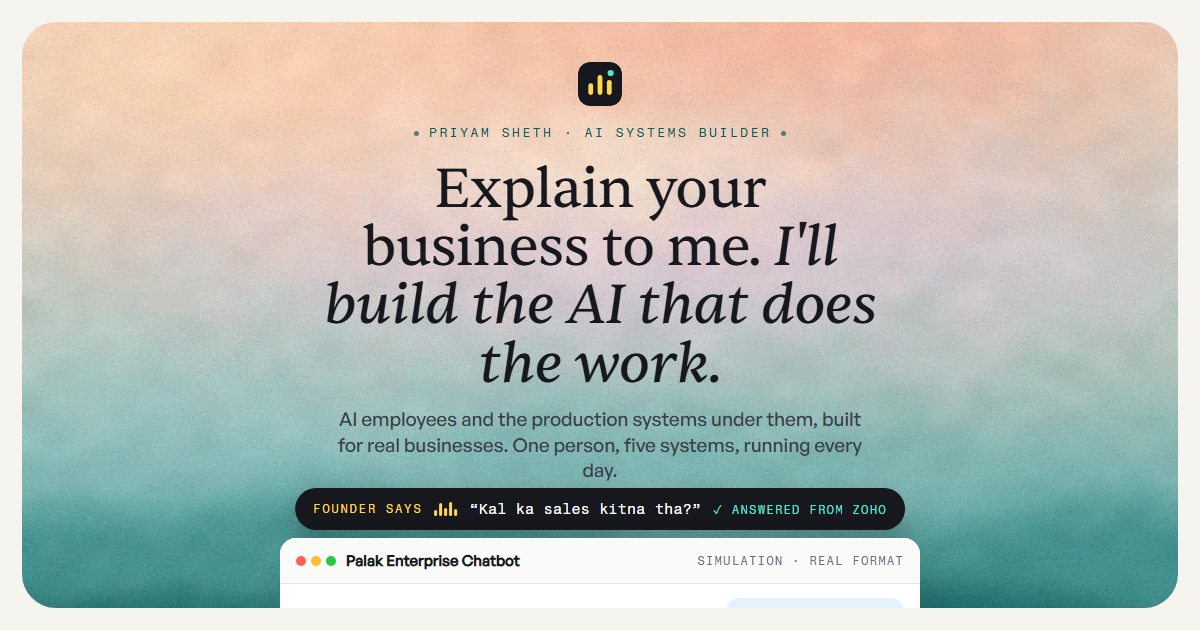
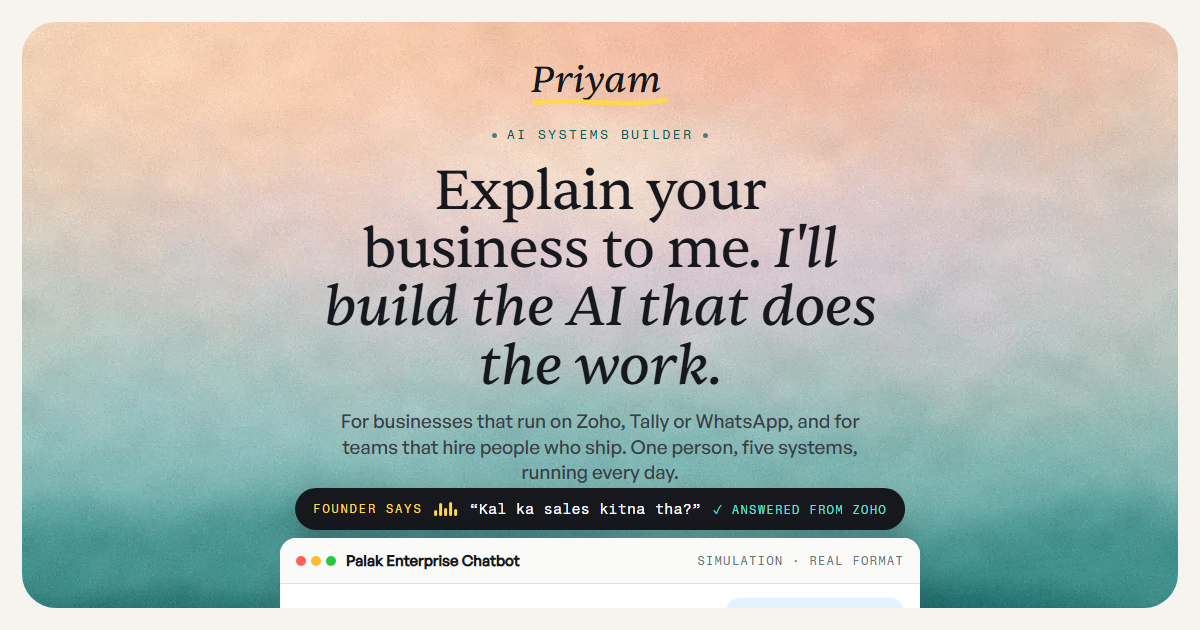
v4: signature wordmark, WhatsApp door, booking button, the path after you message
Approved from the v4 review. Removed the "Running today" strip, the pill
marquee panel and the Donna card (Donna is one sentence in About now); the
clients section is "Clients". Added "What happens after you message": a
20-minute call, a written scope, a fixed-price build in milestones, and the
monthly operations line, with WhatsApp and email doors. WhatsApp click-to-chat
with a prefilled first message sits in the path section, the close panel and
the footer. The hero says who it is for and carries a "Book a 20-minute call"
button (a prefilled mailto until a booking link exists).

Logo direction C: "Priyam" as a signature in the site's serif italic with a
marigold stroke, inline in nav and footer; the bubble-with-a-tick is the
favicon. Share image rebuilt.

The Numbers panel now says plainly that the client's code is private, that the
repository is walked through on a call with permission, and that the platform
sign-in is public; the footer GitHub link says the same.

diff --git a/index.html b/index.html
@@ -25,12 +25,12 @@
 <a class="skip" href="#see">Skip to the work</a>
 
 <header class="nav">
-  <a class="wordmark" href="#top"><img class="logo" src="assets/logo.svg" alt="" width="28" height="28">Priyam Sheth</a>
+  <a class="wordmark" href="#top" aria-label="Priyam Sheth, home"><svg class="sig-mark" viewBox="0 0 220 96" aria-hidden="true" focusable="false"><text x="8" y="58" font-family="Sentient, Georgia, serif" font-style="italic" font-weight="500" font-size="54" fill="currentColor">Priyam</text><path d="M14 74 C 70 66, 150 82, 206 70" fill="none" stroke="#FFD84D" stroke-width="7" stroke-linecap="round"/></svg><span class="wm-sub">AI systems builder</span></a>
   <nav class="nav-links" aria-label="Sections">
     <a href="#how">How I work</a>
     <a href="#see">See it work</a>
     <a href="#numbers">Numbers</a>
-    <a href="#love">Love</a>
+    <a href="#clients">Clients</a>
     <a class="btn" href="mailto:priyamsheth777@gmail.com?subject=Let%27s%20talk">Let's talk</a>
   </nav>
 </header>
@@ -42,12 +42,12 @@
     <section class="plate dusk hero" aria-labelledby="hero-title">
       <p class="mark r">Priyam Sheth · AI systems builder</p>
       <h1 id="hero-title" class="r" style="--d:60ms">Explain your business to me. <em>I'll build the AI that does the work.</em></h1>
-      <p class="lede r" style="--d:120ms">AI employees and the production systems under them, built for real businesses. One person, five systems, running every day.</p>
+      <p class="lede r" style="--d:120ms">For businesses that run on Zoho, Tally or WhatsApp, and for teams that hire people who ship. One person, five systems, running every day.</p>
       <div class="hero-actions r" style="--d:180ms">
         <a class="btn" href="mailto:priyamsheth777@gmail.com?subject=Let%27s%20talk">Let's talk</a>
-        <a class="btn btn-ghost" href="#see">See it work <span class="arrow" aria-hidden="true">&rarr;</span></a>
+        <a class="btn btn-ghost" href="mailto:priyamsheth777@gmail.com?subject=20-minute%20call&body=Hi%20Priyam%2C%0A%0AI%27d%20like%20a%2020-minute%20call.%20A%20few%20times%20that%20work%20for%20me%20(with%20time%20zone)%3A%0A-%20%0A-%20%0A%0AWhat%20I%20want%20to%20talk%20about%3A%20">Book a 20-minute call</a>
       </div>
-      <span class="fine r" style="--d:240ms">Five systems in production · every claim verifiable · email answered by me</span>
+      <span class="fine r" style="--d:240ms">Free call · <a class="fine-link" href="#see">or see it work first &darr;</a></span>
 
     </section>
     <div class="demo r" style="--d:320ms" data-chat>
@@ -73,10 +73,20 @@
       </div>
   </div>
 
-  <!-- ================= STRIP ================= -->
-  <section class="strip wrap" id="strip" aria-label="Running today">
-    <p class="mark r">Running today · 4 September 2026</p>
-    <p class="row r" style="--d:60ms"><span>Wolf Eyes B2B</span><span>Palak OS</span><span>Studio Onyx</span><span>Lens ERP</span><span>UICS</span></p>
+  <!-- ================= AFTER YOU MESSAGE ================= -->
+  <section class="section wrap center next" id="next" aria-labelledby="next-title">
+    <p class="mark r">After you say hello</p>
+    <h2 id="next-title" class="r" style="--d:60ms">What happens after <em>you message</em></h2>
+    <ol class="path r" style="--d:120ms">
+      <li><span class="dot" aria-hidden="true"></span><h3>A 20-minute call</h3><p>Free. You describe the business; I ask about the daily work, not the technology.</p></li>
+      <li><span class="dot" aria-hidden="true"></span><h3>A written scope</h3><p>What gets built, what it costs, and what "done" means. You read it and sign it before any code.</p></li>
+      <li><span class="dot" aria-hidden="true"></span><h3>A fixed-price build</h3><p>In milestones. You see working software every one to two weeks, on your own data.</p></li>
+      <li><span class="dot" aria-hidden="true"></span><h3>I stay</h3><p>A monthly operations line covers uptime, API costs and small changes. No surprises, no hostage retainer.</p></li>
+    </ol>
+    <div class="next-doors r" style="--d:180ms">
+      <a class="btn btn-wa" href="https://wa.me/918849231538?text=Hi%20Priyam%2C%20I%20saw%20your%20site.%20I%20run%20%5Bbusiness%5D%20and%20want%20to%20talk%20about%20automating%20%5Bwhat%5D." target="_blank" rel="noopener"><svg class="wa" viewBox="0 0 24 24" aria-hidden="true"><path fill="currentColor" d="M17.47 14.38c-.3-.15-1.76-.87-2.03-.97-.27-.1-.47-.15-.67.15-.2.3-.77.97-.94 1.17-.17.2-.35.22-.64.07-.3-.15-1.26-.46-2.39-1.48-.88-.79-1.48-1.76-1.65-2.06-.17-.3-.02-.46.13-.61.13-.13.3-.35.45-.52.15-.17.2-.3.3-.5.1-.2.05-.37-.03-.52-.07-.15-.67-1.61-.91-2.2-.24-.58-.49-.5-.67-.51h-.57c-.2 0-.52.07-.79.37-.27.3-1.04 1.02-1.04 2.48s1.07 2.88 1.21 3.08c.15.2 2.1 3.2 5.08 4.49.71.31 1.26.49 1.69.63.71.23 1.36.2 1.87.12.57-.09 1.76-.72 2.01-1.41.25-.7.25-1.29.17-1.41-.07-.13-.27-.2-.57-.35M12.05 21.8h-.01a9.87 9.87 0 0 1-5.03-1.38l-.36-.21-3.74.98 1-3.65-.24-.37a9.86 9.86 0 0 1-1.51-5.26c0-5.45 4.44-9.88 9.9-9.88 2.64 0 5.12 1.03 6.99 2.9a9.82 9.82 0 0 1 2.89 6.99c0 5.45-4.44 9.88-9.89 9.88m8.41-18.3A11.82 11.82 0 0 0 12.05 0C5.5 0 .16 5.33.16 11.89c0 2.1.55 4.14 1.59 5.95L0 24l6.3-1.65a11.88 11.88 0 0 0 5.74 1.46h.01c6.55 0 11.89-5.33 11.89-11.89 0-3.18-1.24-6.16-3.48-8.41"/></svg>Message me on WhatsApp</a>
+      <a class="btn btn-ghost" href="mailto:priyamsheth777@gmail.com?subject=Build%20me%20one">Or email: Build me one</a>
+    </div>
   </section>
 
   <!-- ================= HOW I WORK ================= -->
@@ -285,30 +295,6 @@
     </div>
   </section>
 
-  <!-- ================= EVERY LAYER ================= -->
-  <section class="section" id="layers" aria-labelledby="layers-title">
-    <div class="hero-wrap">
-      <div class="plate rose frame-plate">
-        <p class="mark r">Every layer</p>
-        <h2 id="layers-title" class="r" style="--d:60ms">One builder, <em>every layer</em></h2>
-        <p class="sub r" style="--d:120ms">From the database to the Telegram message. No agency, no hand-offs, and runbooks so the team can run it without me.</p>
-        <div class="screen r" style="--d:180ms">
-          <span class="notch">Message · it does the task · reports at 7:30</span>
-          <div class="rows" aria-label="Technologies in production">
-            <div class="row-track" style="--dur:56s">
-              <span class="pill"><img src="assets/logos/zoho.svg" alt="" width="16" height="16">Zoho Books</span><span class="pill"><img src="assets/logos/zoho.svg" alt="" width="16" height="16">Zoho Inventory</span><span class="pill"><img src="assets/logos/zoho.svg" alt="" width="16" height="16">Zoho CRM</span><span class="pill"><img src="assets/logos/telegram.svg" alt="" width="16" height="16">Telegram</span><span class="pill"><img src="assets/logos/whatsapp.svg" alt="" width="16" height="16">WhatsApp OTP</span><span class="pill"><img src="assets/logos/postgresql.svg" alt="" width="16" height="16">PostgreSQL</span><span class="pill"><img src="assets/logos/prisma.svg" alt="" width="16" height="16">Prisma</span><span class="pill"><img src="assets/logos/fastify.svg" alt="" width="16" height="16">Fastify</span><span class="pill"><img src="assets/logos/nextdotjs.svg" alt="" width="16" height="16">Next.js</span><span class="pill"><img src="assets/logos/cloudflare.svg" alt="" width="16" height="16">Cloudflare R2</span><span class="pill"><img src="assets/logos/typescript.svg" alt="" width="16" height="16">TypeScript</span>
-              <span class="pill" aria-hidden="true"><img src="assets/logos/zoho.svg" alt="" width="16" height="16">Zoho Books</span><span class="pill" aria-hidden="true"><img src="assets/logos/zoho.svg" alt="" width="16" height="16">Zoho Inventory</span><span class="pill" aria-hidden="true"><img src="assets/logos/zoho.svg" alt="" width="16" height="16">Zoho CRM</span><span class="pill" aria-hidden="true"><img src="assets/logos/telegram.svg" alt="" width="16" height="16">Telegram</span><span class="pill" aria-hidden="true"><img src="assets/logos/whatsapp.svg" alt="" width="16" height="16">WhatsApp OTP</span><span class="pill" aria-hidden="true"><img src="assets/logos/postgresql.svg" alt="" width="16" height="16">PostgreSQL</span><span class="pill" aria-hidden="true"><img src="assets/logos/prisma.svg" alt="" width="16" height="16">Prisma</span><span class="pill" aria-hidden="true"><img src="assets/logos/fastify.svg" alt="" width="16" height="16">Fastify</span><span class="pill" aria-hidden="true"><img src="assets/logos/nextdotjs.svg" alt="" width="16" height="16">Next.js</span><span class="pill" aria-hidden="true"><img src="assets/logos/cloudflare.svg" alt="" width="16" height="16">Cloudflare R2</span><span class="pill" aria-hidden="true"><img src="assets/logos/typescript.svg" alt="" width="16" height="16">TypeScript</span>
-            </div>
-            <div class="row-track rev" style="--dur:62s">
-              <span class="pill"><img src="assets/logos/claude.svg" alt="" width="16" height="16">Claude Agent SDK</span><span class="pill"><i></i>OpenAI image model</span><span class="pill"><i></i>AWS IVS</span><span class="pill"><img src="assets/logos/supabase.svg" alt="" width="16" height="16">Supabase</span><span class="pill"><img src="assets/logos/netlify.svg" alt="" width="16" height="16">Netlify</span><span class="pill"><img src="assets/logos/python.svg" alt="" width="16" height="16">Python</span><span class="pill"><img src="assets/logos/react.svg" alt="" width="16" height="16">React</span><span class="pill"><img src="assets/logos/pm2.svg" alt="" width="16" height="16">PM2</span><span class="pill"><i></i>Playwright</span><span class="pill"><img src="assets/logos/docker.svg" alt="" width="16" height="16">Docker</span><span class="pill"><img src="assets/logos/github.svg" alt="" width="16" height="16">GitHub</span>
-              <span class="pill" aria-hidden="true"><img src="assets/logos/claude.svg" alt="" width="16" height="16">Claude Agent SDK</span><span class="pill" aria-hidden="true"><i></i>OpenAI image model</span><span class="pill" aria-hidden="true"><i></i>AWS IVS</span><span class="pill" aria-hidden="true"><img src="assets/logos/supabase.svg" alt="" width="16" height="16">Supabase</span><span class="pill" aria-hidden="true"><img src="assets/logos/netlify.svg" alt="" width="16" height="16">Netlify</span><span class="pill" aria-hidden="true"><img src="assets/logos/python.svg" alt="" width="16" height="16">Python</span><span class="pill" aria-hidden="true"><img src="assets/logos/react.svg" alt="" width="16" height="16">React</span><span class="pill" aria-hidden="true"><img src="assets/logos/pm2.svg" alt="" width="16" height="16">PM2</span><span class="pill" aria-hidden="true"><i></i>Playwright</span><span class="pill" aria-hidden="true"><img src="assets/logos/docker.svg" alt="" width="16" height="16">Docker</span><span class="pill" aria-hidden="true"><img src="assets/logos/github.svg" alt="" width="16" height="16">GitHub</span>
-            </div>
-          </div>
-        </div>
-      </div>
-    </div>
-  </section>
-
   <!-- ================= NUMBERS ================= -->
   <section class="section" id="numbers" aria-labelledby="numbers-title">
     <div class="hero-wrap">
@@ -323,24 +309,24 @@
           <div class="stat"><span class="n" data-n="102" data-prefix="~" data-suffix="k">~102k</span><span class="l">lines of TypeScript at launch, 40% of them tests</span></div>
         </div>
         <p class="src fine r" style="--d:240ms">Source: the Wolf Eyes and Palak OS repositories, 3 September 2026</p>
+        <p class="verify r" style="--d:300ms">The code belongs to the client and is private. On a call I screen-share the repository with their permission, and the platform's public sign-in is at <a href="https://b2bwolfeyes.in" target="_blank" rel="noopener">b2bwolfeyes.in</a>. The screenshots on this page are from the production build.</p>
       </div>
     </div>
   </section>
 
   <!-- ================= LOVE ================= -->
-  <section class="section wrap center" id="love" aria-labelledby="love-title">
+  <section class="section wrap center" id="clients" aria-labelledby="clients-title">
     <p class="mark r">The client's words</p>
-    <h2 id="love-title" class="r" style="--d:60ms">In the client's <em>own words</em></h2>
+    <h2 id="clients-title" class="r" style="--d:60ms">In the client's <em>own words</em></h2>
     <div class="love r" style="--d:120ms">
       <figure class="big">
         <blockquote>“Main ise roz use karta hoon, ab ye humare business ka sabse important hissa ban gaya hai. <mark>Jo kaam pehle ghanton lete the, ab seconds mein hote hain</mark>, zero human error ke saath. Roz 7:30 ki report se pure din ka overview mil jata hai. <mark>Palak agent ab mera AI co-founder hai</mark>, har decision mein saath deta hai, aur team ke liye internal software bhi khud bana deta hai.”</blockquote>
         <figcaption><b>Tirth Boradia</b>Palak Enterprise · on Palak OS</figcaption>
       </figure>
       <div class="dark"><span class="sig">Want one trained on your business?</span><a href="mailto:priyamsheth777@gmail.com?subject=Build%20me%20one">Build me one &rarr;</a></div>
-      <div class="three">
+      <div class="two">
         <figure class="card"><blockquote>“Nayi site ekdum fast hai, aur catalogue ab premium lagta hai. Order karna itna easy ho gaya ki <mark>dealers khud zyada orders punch kar rahe hain</mark>.”</blockquote><figcaption><b>Tirth Boradia</b>on Wolf Eyes B2B</figcaption></figure>
         <figure class="card"><blockquote>“Pehle har photo ka editing cost alag tha, aur editor ko catalogue ready karne mein kaafi time lagta tha. <mark>Ab pura kaam kuch ghanton mein ho jata hai.</mark>”</blockquote><figcaption><b>Tirth Boradia</b>on Studio Onyx</figcaption></figure>
-        <figure class="card"><blockquote>Donna, my own AI: permanent memory, corrects herself when facts change, checks her replies against a record of what actually ran, and only talks to me.</blockquote><figcaption><b>Built for myself</b>same engineering, no client</figcaption></figure>
       </div>
     </div>
   </section>
@@ -353,6 +339,8 @@
       <div>
         <p>I am Priyam Sheth, an independent AI systems builder. I ship production software for real businesses: B2B platforms, AI employees trained on a company's own data, and the unglamorous automation underneath. I work in three layers at once: product judgement, architecture, and the code itself.</p>
         <p>Two threads run through the work. Deterministic engineering, where the domain math has to be exactly right: settlement cycles, allocation rules, substitution tolerances. And agentic systems, where an AI does the daily work with memory, guardrails and receipts. The first proves the second is real engineering, not glue.</p>
+        <p>I also built Donna, my own AI: permanent memory, corrects herself when facts change, and checks every reply against a record of what actually ran.</p>
+        <p class="stack">Zoho Books, Inventory and CRM · Telegram and WhatsApp · PostgreSQL · Next.js and Fastify · Python · Claude Agent SDK · AWS IVS · Supabase · Netlify</p>
         <ul class="tl">
           <li><span class="w">2025 – now</span><div><p class="role">Freelance · AI Systems Builder</p><p class="note">Independent. Builds AI systems and production software for businesses.</p></div></li>
           <li><span class="w">Oct 2024 – Jul 2025</span><div><p class="role">Data Analytics Intern</p><p class="note">Axisray</p></div></li>
@@ -365,13 +353,14 @@
   <!-- ================= CLOSE ================= -->
   <div class="close-wrap" id="contact">
     <section class="plate rose close" aria-labelledby="close-title">
-      <p class="mark r">Two doors</p>
+      <p class="mark r">Say hello</p>
       <h2 id="close-title" class="r" style="--d:60ms">Your business, <em>answering back.</em></h2>
       <div class="doors r" style="--d:120ms">
         <a class="btn" href="mailto:priyamsheth777@gmail.com?subject=Let%27s%20talk">Hiring? Let's talk</a>
+        <a class="btn btn-wa" href="https://wa.me/918849231538?text=Hi%20Priyam%2C%20I%20saw%20your%20site.%20I%20run%20%5Bbusiness%5D%20and%20want%20to%20talk%20about%20automating%20%5Bwhat%5D." target="_blank" rel="noopener"><svg class="wa" viewBox="0 0 24 24" aria-hidden="true"><path fill="currentColor" d="M17.47 14.38c-.3-.15-1.76-.87-2.03-.97-.27-.1-.47-.15-.67.15-.2.3-.77.97-.94 1.17-.17.2-.35.22-.64.07-.3-.15-1.26-.46-2.39-1.48-.88-.79-1.48-1.76-1.65-2.06-.17-.3-.02-.46.13-.61.13-.13.3-.35.45-.52.15-.17.2-.3.3-.5.1-.2.05-.37-.03-.52-.07-.15-.67-1.61-.91-2.2-.24-.58-.49-.5-.67-.51h-.57c-.2 0-.52.07-.79.37-.27.3-1.04 1.02-1.04 2.48s1.07 2.88 1.21 3.08c.15.2 2.1 3.2 5.08 4.49.71.31 1.26.49 1.69.63.71.23 1.36.2 1.87.12.57-.09 1.76-.72 2.01-1.41.25-.7.25-1.29.17-1.41-.07-.13-.27-.2-.57-.35M12.05 21.8h-.01a9.87 9.87 0 0 1-5.03-1.38l-.36-.21-3.74.98 1-3.65-.24-.37a9.86 9.86 0 0 1-1.51-5.26c0-5.45 4.44-9.88 9.9-9.88 2.64 0 5.12 1.03 6.99 2.9a9.82 9.82 0 0 1 2.89 6.99c0 5.45-4.44 9.88-9.89 9.88m8.41-18.3A11.82 11.82 0 0 0 12.05 0C5.5 0 .16 5.33.16 11.89c0 2.1.55 4.14 1.59 5.95L0 24l6.3-1.65a11.88 11.88 0 0 0 5.74 1.46h.01c6.55 0 11.89-5.33 11.89-11.89 0-3.18-1.24-6.16-3.48-8.41"/></svg>WhatsApp</a>
         <a class="btn btn-ghost" href="mailto:priyamsheth777@gmail.com?subject=Build%20me%20one">Build me one <span class="arrow" aria-hidden="true">&rarr;</span></a>
       </div>
-      <span class="fine r" style="--d:180ms">Both end in an email · the subject line is already written</span>
+      <span class="fine r" style="--d:180ms">Email or WhatsApp · the first message is already written for you</span>
       <p class="mail r" style="--d:240ms">Prefer plain email? <a href="mailto:priyamsheth777@gmail.com">priyamsheth777@gmail.com</a><button type="button" class="copy-btn" data-copy="priyamsheth777@gmail.com">Copy</button></p>
     </section>
   </div>
@@ -381,12 +370,12 @@
 <footer>
   <div class="wrap">
     <div class="foot">
-      <div><a class="wordmark" href="#top"><img class="logo" src="assets/logo.svg" alt="" width="28" height="28">Priyam Sheth</a><p class="tag">AI systems builder</p></div>
+      <div><a class="wordmark" href="#top" aria-label="Priyam Sheth, home"><svg class="sig-mark" viewBox="0 0 220 96" aria-hidden="true" focusable="false"><text x="8" y="58" font-family="Sentient, Georgia, serif" font-style="italic" font-weight="500" font-size="54" fill="currentColor">Priyam</text><path d="M14 74 C 70 66, 150 82, 206 70" fill="none" stroke="#FFD84D" stroke-width="7" stroke-linecap="round"/></svg></a><p class="tag">Priyam Sheth · AI systems builder</p></div>
       <div><h4>Work</h4><ul><li><a href="#see" data-open-tab="p-wolf">Wolf Eyes B2B</a></li><li><a href="#see" data-open-tab="p-live">Live Commerce</a></li><li><a href="#see" data-open-tab="p-palak">Palak OS</a></li><li><a href="#see" data-open-tab="p-onyx">Studio Onyx</a></li><li><a href="#see" data-open-tab="p-erp">Lens ERP</a></li><li><a href="#see" data-open-tab="p-uics">UICS</a></li></ul></div>
-      <div><h4>Method</h4><ul><li><a href="#how">How I work</a></li><li><a href="#vs">By hand vs the system</a></li><li><a href="#numbers">Numbers</a></li><li><a href="#love">The client's words</a></li></ul></div>
-      <div><h4>Me</h4><ul><li><a href="#about">About</a></li><li><a href="https://github.com/Priyam-Sheth" rel="noopener">GitHub</a></li><li><a href="https://www.linkedin.com/in/priyam-sheth-680874bb" rel="noopener">LinkedIn</a></li><li><a href="mailto:priyamsheth777@gmail.com">Email</a></li></ul></div>
+      <div><h4>Method</h4><ul><li><a href="#how">How I work</a></li><li><a href="#next">After you message</a></li><li><a href="#numbers">Numbers</a></li><li><a href="#clients">Clients</a></li></ul></div>
+      <div><h4>Me</h4><ul><li><a href="#about">About</a></li><li><a href="https://github.com/Priyam-Sheth" rel="noopener">GitHub (client code is private)</a></li><li><a href="https://www.linkedin.com/in/priyam-sheth-680874bb" rel="noopener">LinkedIn</a></li><li><a href="mailto:priyamsheth777@gmail.com">Email</a></li><li><a href="https://wa.me/918849231538?text=Hi%20Priyam%2C%20I%20saw%20your%20site.%20I%20run%20%5Bbusiness%5D%20and%20want%20to%20talk%20about%20automating%20%5Bwhat%5D." rel="noopener">WhatsApp</a></li></ul></div>
     </div>
-    <div class="foot-bar"><span>© 2026 Priyam Sheth · Ahmedabad, India</span><span>No trackers, no cookies</span><span>priyamsheth777@gmail.com</span></div>
+    <div class="foot-bar"><span>© 2026 Priyam Sheth · Ahmedabad, India</span><span>No trackers, no cookies</span><span>priyamsheth777@gmail.com · +91 88492 31538</span></div>
   </div>
 </footer>
 

diff --git a/src/v3/site.css b/src/v3/site.css
@@ -87,7 +87,26 @@ p{text-wrap:pretty}
 /* nav */
 .nav{position:sticky;top:0;z-index:20;height:var(--nav-h);display:flex;align-items:center;justify-content:space-between;gap:1rem;padding:0 clamp(1rem,3vw,2.5rem);background:rgba(245,244,239,.82);backdrop-filter:blur(14px) saturate(1.3);-webkit-backdrop-filter:blur(14px) saturate(1.3)}
 .wordmark{font-family:var(--serif);font-weight:500;font-size:1.35rem;letter-spacing:-.01em;text-decoration:none;display:flex;align-items:center;gap:.5rem}
-.wordmark .logo{width:28px;height:28px;border-radius:8px;display:block}
+.wordmark{gap:.7rem;color:var(--ink)}
+.sig-mark{height:38px;width:auto;display:block;color:var(--ink)}
+.wm-sub{font-family:var(--sans);font-weight:500;font-size:.8125rem;color:var(--ink-3);letter-spacing:.01em;padding-top:.35rem}
+@media (max-width:600px){.wm-sub{display:none}.sig-mark{height:34px}}
+.fine-link{color:var(--teal-2);text-decoration:none;border-bottom:1px solid rgba(11,92,86,.35)}
+/* after you message */
+.next{padding-top:clamp(3rem,7vh,5rem)}
+.path{list-style:none;display:grid;grid-template-columns:repeat(4,1fr);gap:1.25rem;margin:2.5rem auto 0;max-width:70rem;text-align:left;position:relative}
+.path::before{content:"";position:absolute;left:5%;right:5%;top:.55rem;height:2px;background:var(--line-2)}
+.path li{position:relative;padding-top:1.6rem}
+.path .dot{position:absolute;left:0;top:0;width:1.1rem;height:1.1rem;border-radius:50%;background:var(--mari);border:3px solid var(--bg);box-shadow:0 0 0 2px var(--line-2)}
+.path h3{font-family:var(--sans);font-weight:600;font-size:1.05rem;letter-spacing:0;margin-bottom:.35rem}
+.path p{font-size:var(--t-sm);color:var(--ink-2)}
+.next-doors{display:flex;flex-wrap:wrap;justify-content:center;gap:.8rem;margin-top:2.2rem}
+.btn-wa{background:#25D366;border-color:#25D366;color:#0B2E1A}
+.btn-wa:hover{background:#1EBE5A;border-color:#1EBE5A}
+.btn .wa{width:18px;height:18px}
+.about .stack{font-family:var(--mono);font-size:var(--t-xs);letter-spacing:.02em;color:var(--ink-3);margin-top:1rem;line-height:1.7}
+@media (max-width:860px){.path{grid-template-columns:1fr 1fr;gap:1.25rem 1.5rem}.path::before{display:none}}
+@media (max-width:520px){.path{grid-template-columns:1fr}}
 .nav-links{display:flex;gap:1.9rem;align-items:center}
 .nav-links a:not(.btn){font-size:var(--t-sm);font-weight:500;color:var(--ink-2);text-decoration:none;transition:color 160ms ease}
 .nav-links a:not(.btn):hover{color:var(--ink)}
@@ -379,6 +398,8 @@ body.js .r.in{opacity:1;transform:none;transition:opacity 800ms var(--ease),tran
 .stat .n em{font-style:italic;color:var(--teal-lit)}
 .stat .l{display:block;margin-top:.5rem;color:var(--night-dim);font-size:var(--t-sm);line-height:1.4}
 .numbers .src{margin-top:1.4rem;color:var(--night-dim)}
+.numbers .verify{max-width:52ch;margin:1rem auto 0;font-size:var(--t-sm);color:var(--night-dim);line-height:1.5}
+.numbers .verify a{color:#fff}
 @media (max-width:860px){.stats{grid-template-columns:repeat(2,1fr)}}
 
 /* ============================================================
@@ -395,8 +416,8 @@ body.js .r.in{opacity:1;transform:none;transition:opacity 800ms var(--ease),tran
 .love mark{background:linear-gradient(180deg,transparent 45%,var(--mari-soft) 45%);color:inherit;padding:0 .1em}
 .love figcaption{margin-top:1rem;font-family:var(--mono);font-size:var(--t-xs);letter-spacing:.12em;text-transform:uppercase;color:var(--ink-3)}
 .love figcaption b{display:block;color:var(--ink);font-weight:400;letter-spacing:.14em}
-.love .three{grid-column:1/-1;display:grid;grid-template-columns:repeat(3,1fr);gap:1.25rem}
-@media (max-width:860px){.love{grid-template-columns:1fr}.love .three{grid-template-columns:1fr}}
+.love .two{grid-column:1/-1;display:grid;grid-template-columns:repeat(2,1fr);gap:1.25rem}
+@media (max-width:860px){.love{grid-template-columns:1fr}.love .two{grid-template-columns:1fr}}
 
 /* ============================================================
    ABOUT
@@ -427,7 +448,7 @@ body.js .r.in{opacity:1;transform:none;transition:opacity 800ms var(--ease),tran
 .copy-btn[data-done="1"]{background:var(--mari)}
 footer{background:var(--ink);color:#fff;margin-top:clamp(3rem,6vw,5rem);padding:3.5rem 0 2rem}
 .foot{display:grid;grid-template-columns:1.4fr 1fr 1fr 1fr;gap:2rem}
-.foot .wordmark{color:#fff}.foot .wordmark .logo{outline:1px solid rgba(255,255,255,.25)}
+.foot .wordmark{color:#fff}.foot .sig-mark{color:#fff;height:44px}
 .foot .tag{margin-top:.8rem;font-family:var(--mono);font-size:var(--t-xs);letter-spacing:.16em;text-transform:uppercase;color:var(--night-dim)}
 .foot h4{font-family:var(--mono);font-weight:400;font-size:var(--t-xs);letter-spacing:.16em;text-transform:uppercase;color:var(--night-dim);margin-bottom:1rem}
 .foot ul{list-style:none;display:grid;gap:.1rem}

diff --git a/scripts/og/og.html b/scripts/og/og.html
@@ -7,7 +7,7 @@
 @font-face{font-family:'Fragment Mono';src:url('http://localhost:8343/assets/fonts/fragment-mono-400.woff2') format('woff2');font-weight:400}
 *{margin:0;box-sizing:border-box}
 body{width:1200px;height:630px;overflow:hidden;background:#F5F4EF;font-family:'General Sans',sans-serif;color:#16181D;position:relative;padding:22px}
-.plate{position:relative;width:100%;height:100%;border-radius:34px;overflow:hidden;background:url('http://localhost:8343/assets/paint/dusk.webp') center/cover;text-align:center;padding-top:40px}
+.plate{position:relative;width:100%;height:100%;border-radius:34px;overflow:hidden;background:url('http://localhost:8343/assets/paint/dusk.webp') center/cover;text-align:center;padding-top:30px}
 .mark{font-family:'Fragment Mono',monospace;font-size:13px;letter-spacing:.18em;text-transform:uppercase;color:#0B5C56}
 .mark::before,.mark::after{content:"";display:inline-block;width:5px;height:5px;border-radius:50%;background:currentColor;opacity:.7;vertical-align:middle;margin:0 10px}
 h1{font-family:'Sentient',serif;font-weight:400;font-size:56px;line-height:1.04;letter-spacing:-.015em;margin:18px auto 0;max-width:16ch}
@@ -26,9 +26,9 @@ p{font-size:19px;color:#3A3F48;margin:14px auto 0;max-width:48ch;line-height:1.3
 .name b{font-weight:600;color:#16181D}
 </style></head><body>
 <div class="plate">
-  <img src="http://localhost:8343/assets/logo.svg" width="44" height="44" style="display:block;margin:0 auto 14px;border-radius:12px"><span class="mark">Priyam Sheth · AI systems builder</span>
+  <svg viewBox="0 0 220 96" width="150" height="66" style="display:block;margin:0 auto 4px"><text x="8" y="58" font-family="Sentient" font-style="italic" font-weight="500" font-size="54" fill="#16181D">Priyam</text><path d="M14 74 C 70 66, 150 82, 206 70" fill="none" stroke="#FFD84D" stroke-width="7" stroke-linecap="round"/></svg><span class="mark">AI systems builder</span>
   <h1>Explain your business to me. <em>I'll build the AI that does the work.</em></h1>
-  <p>AI employees and the production systems under them, built for real businesses. One person, five systems, running every day.</p>
+  <p>For businesses that run on Zoho, Tally or WhatsApp, and for teams that hire people who ship. One person, five systems, running every day.</p>
   <div class="say"><span class="who">Founder says</span><span class="bars"><i style="height:40%"></i><i style="height:90%"></i><i style="height:60%"></i><i style="height:100%"></i><i style="height:50%"></i></span>“Kal ka sales kitna tha?”<span class="ok">✓ ANSWERED FROM ZOHO</span></div>
   <div class="win"><div class="bar"><span class="dots"><i></i><i></i><i></i></span>Palak Enterprise Chatbot<span class="meta">simulation · real format</span></div><div class="msg">Kal ka sales kitna tha?</div></div>
 </div>

diff --git a/docs/v4-ideas.md b/docs/v4-ideas.md
@@ -1,0 +1,120 @@
+# v4 review: what to remove, add, change, enhance
+
+Written 6 Sep 2026, after v3 shipped and the mobile pass landed. Read against the live page, the
+research below, and the honest audit of what a first-time visitor still cannot do on this site.
+
+## The one-line diagnosis
+
+The page now proves that Priyam ships. What it still does not do is make the next step easy for
+either audience. A business owner cannot see what happens after they email, what it might cost,
+or how to reach Priyam the way they reach everyone else (WhatsApp). A hiring manager or French
+reviewer cannot download anything, cannot verify the client, and cannot see the code.
+
+Everything below serves those two gaps, then the logo.
+
+## Remove
+
+1. **"Running today" strip** (five grey names under the hero). It repeats the tab labels and
+   carries no proof. Cut it. The hero note already says what the chat is.
+2. **"One builder, every layer" pill marquee.** Decorative. Fold the stack into one quiet line in
+   About ("Zoho, Telegram, Postgres, Next.js, Python, AWS IVS, Supabase") and drop the panel.
+3. **The Donna card inside "the client's words".** It is not a client's words. Move Donna to About
+   as one sentence with a link to the GitHub repo.
+4. **"Love" in the nav.** That is Lemon's word for a wall of tweets; for a person it reads odd.
+   Rename the section "Clients" and the nav item "Clients".
+
+## Add
+
+1. **"What happens after you email" (for owners).** A four-step strip under the hero chat:
+   a 20-minute call, a written scope you sign, a fixed-price build in milestones, and a monthly
+   operations line that covers uptime and API costs. This matches the pricing model in the
+   business-os-lab notes (discovery fee, milestone build, operations retainer, outcome-based
+   expansion). It answers "what does it cost" without a number, and it removes the biggest
+   hesitation an SMB owner has: not knowing what they are signing up for.
+2. **WhatsApp click-to-chat.** Indian owners live on WhatsApp; email is a barrier. A second door
+   "Message me on WhatsApp" with a prefilled text ("Hi Priyam, I run ... and I want to talk about
+   automating ..."). Needs Priyam's number and his consent to publish it.
+3. **Book a call.** A Cal.com or Google appointment link, free, labelled "Book a 20-minute call".
+   Research on freelance conversion is consistent: a button that names the length and the cost
+   ("free") resolves three hesitations in five words.
+4. **A 60 to 90 second screen recording** of Palak OS answering on Telegram and a Wolf Eyes order
+   landing in Zoho. Real footage beats every screenshot on the page. Priyam records it; the page
+   shows a poster frame with a play button (no autoplay, no YouTube chrome).
+5. **Downloads for reviewers.** A one-page PDF per case study and a CV PDF (the visa CV already
+   exists). French reviewers screen from PDFs; give them the file.
+6. **Verifiable client proof.** Tirth's LinkedIn link under his name, and, if he agrees, his photo.
+   A quote with a face and a profile link is worth three anonymous ones.
+7. **FAQ, five questions, no more.** "Do you work with Zoho or Tally?", "What does it cost?",
+   "Who owns the code?", "What if it breaks after launch?", "Do you work remotely and in which
+   hours?" Each answer two sentences. Objections handled before the email.
+8. **Availability line, dated.** "Taking one new build for Q4 2026" beside the primary button.
+   True scarcity, refreshed monthly. Remove the moment it stops being true.
+9. **Public code.** Hiring managers in the research say the same thing: if they cannot see code,
+   the GitHub is invisible. The client repos are private. Options: publish Donna, or a small
+   extracted library (the Zoho sync worker, the two-pass allocator) with the client's consent.
+   One public, well-documented repo linked from the Numbers panel changes what a reviewer can do.
+10. **A second business.** Palak Optical and the SES/Nemi work exist in the notes. If any of it is
+    signed off and nameable, one more logo under "the client's words" answers the "one client"
+    worry that PRODUCT.md already flagged.
+
+## Change
+
+1. **Hero qualifier.** Under the headline, one line saying who it is for: "For businesses that run
+   on Zoho, Tally or WhatsApp, and for teams that hire people who ship." Two audiences, named.
+2. **Primary button copy.** "Let's talk" is fine for hiring; for owners "Book a 20-minute call"
+   converts better. Two buttons, two audiences, both in the hero.
+3. **Numbers panel source line.** Add the date they were last refreshed and a link to the public
+   repo once one exists.
+4. **Footer.** "Ahmedabad, India" becomes "Ahmedabad, India · Paris from October 2026" or drops.
+   Priyam's call, but a reviewer in Paris reads the Paris line as an asset.
+5. **About.** Add what it is like to work with him: languages (English, Hindi, Gujarati), working
+   hours, how he communicates (Telegram or WhatsApp, weekly written update). Relatable beats
+   impressive here.
+
+## Enhance
+
+1. **Hero chat: let people type.** A fourth chip "Ask about your business" that opens the mailto
+   with the message prefilled, so the simulation hands off to the real channel.
+2. **Testimonial photos.** Even one face changes the section.
+3. **Print stylesheet.** Reviewers print. Plates become flat, marquees become lists, the page
+   becomes a clean six-page document.
+4. **Privacy-friendly analytics** (GoatCounter, cookieless). Without it Priyam cannot learn
+   which tab people open or where they leave. The footer's "no cookies" stays true; "no trackers"
+   becomes "no cookies, no ads, one privacy-friendly counter".
+5. **Sitemap and robots**, and a short `humans.txt`. Small, free, reviewers notice.
+
+## The logo
+
+The current mark (three bars and a dot) was designed to rhyme with the say-bar's "listening"
+glyph. It reads as audio, not as Priyam, which is why it does not feel relatable. Four directions
+are rendered in `docs/logo-directions.png`:
+
+- **A. Said, done.** A chat bubble with a tick. The promise on the page, readable in any country.
+- **B. The P with a dot.** His initial in the site's serif italic, marigold dot where the message
+  lands. Personal, quiet, one voice with the wordmark.
+- **C. A signature.** "Priyam" in the serif italic with a marigold underline stroke. Says "a person,
+  not an agency". The bubble-tick becomes the favicon.
+- **D. You and the system.** Two overlapping circles, the overlap marigold. A story in one sentence,
+  but abstract.
+
+Recommendation: **C for the wordmark, A for the favicon and app icon.** A signature is the most
+relatable thing a one-person business can put on a page, and the bubble-tick carries the promise
+into the browser tab. B is the safe second choice if the signature feels too informal.
+
+## What this needs from Priyam
+
+- Logo direction (A, B, C or D, or a mix).
+- WhatsApp number and consent to publish it; a Cal.com or Google booking link.
+- A screen recording, or permission for me to script and capture one from the local run.
+- Tirth's LinkedIn URL and whether a photo may be used.
+- Which repo, if any, can be public.
+- Whether Palak Optical or the SES/Nemi work can be named.
+- The footer location decision, and the current availability line.
+
+## Sources consulted
+
+- millo.co, "Landing page tactics freelancers can use to turn portfolio visitors into clients"
+- resumly.ai, "Freelance portfolio that wins for software engineers in 2026"
+- feedcoyote.com, "How to build a freelance portfolio that converts in 2026"
+- codeboards.io and hakia.com developer portfolio guides, 2026 (proof of real work, live demos,
+  public code, load under two seconds)

diff --git a/DESIGN.md b/DESIGN.md
@@ -30,6 +30,12 @@ plates, not the page ground. One dark plate (numbers) and a dark footer.
 - Every heading has exactly one italic phrase. Marks are uppercase mono with a dot each side,
   at the top of a plate or section, never twice in a section.
 
+## Mark
+- Wordmark: a signature, "Priyam" in Sentient italic 500 with a marigold underline stroke
+  (inline SVG in nav and footer; `assets/signature.svg` for reuse). Chosen by Priyam on 6 Sep 2026
+  over a monogram and an abstract mark: "a person, not an agency".
+- Favicon and app icon: the bubble-with-a-tick, `assets/logo.svg`. "Said, done."
+
 ## Shape and depth
 - Plates 30px radius, cards 22px, app windows 16px, pills full.
 - Window shadow: three layers, deepest 0 50px 90px at 10% ink. Card shadow lighter.
@@ -51,7 +57,9 @@ plates, not the page ground. One dark plate (numbers) and a dark footer.
 - **Phones**: two phone frames side by side inside an app window (Live Commerce: stream + sheet).
 - **Facts**: a three-column grid of measured claims, serif value with one italic word, mono-free.
 - **VS**: two cards, by hand vs with the system, with bars that grow on entry.
-- **Screen**: a framed area with two pill marquees (the only marquees on the page).
+- **Path**: four dots on a line, the steps after a visitor messages (call, scope, build, stay).
+- **WhatsApp door**: green `btn-wa` with the official glyph, prefilled wa.me text, in the path
+  section and the close panel.
 - **Stats**: four cells on the night plate, counters tick up once.
 - **Love**: one big marigold-tinted quote, one dark call card, three small cards.
 - **Close**: rose plate, two buttons, copy-email.
